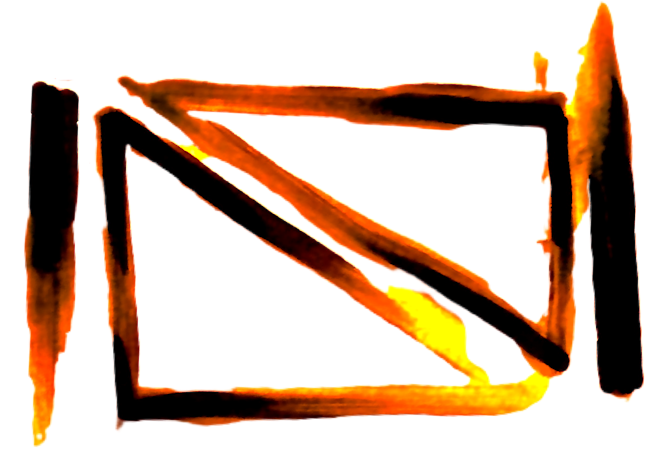
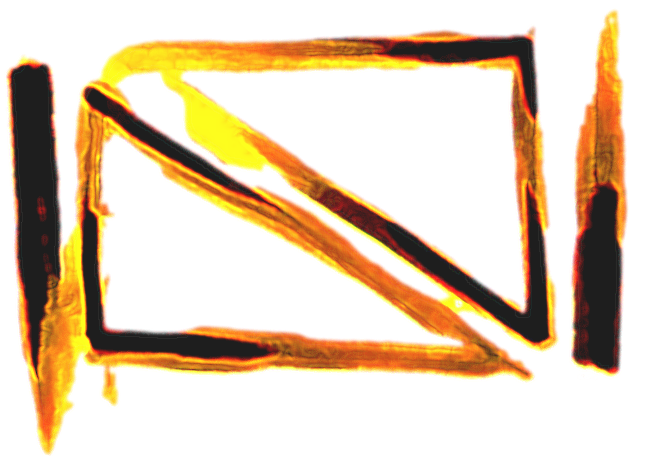
bg, javascript
updates on bg,  javascript, and images

diff --git a/idstyleblack.css b/idstyleblack.css
@@ -6,10 +6,10 @@
 
 body {
 
-    background-image: url('https://rhynep.github.io/id/images/bg_light.png');
+  /*  background-image: url('https://rhynep.github.io/id/images/bg_light.png');
     background-repeat: no-repeat;
     background-attachment: fixed;
-    background-position: center;
+    background-position: center; */
 
     color:white;
     background-color:black;
@@ -180,6 +180,7 @@ img#yellowbackground {
     float:right;
     top:55px;
     right:100px;
+    transform: rotate(11deg) scale(0.9);
     
 }
 
@@ -230,4 +231,32 @@ div.carelessvideo {
     flex-direction: row;
     align-content: center;
     margin-left:33%;
+}
+
+/* subliminal symbol flashes */
+div.flashes1 {
+    position:float;
+    color:red;
+    margin-left:1%;
+    margin-top:33%%;
+}
+
+div.flashes2 {
+    position:fixed;
+    color:black;
+    margin-left:7%;
+    margin-top:44%
+   
+}
+
+div.flashes3 {
+    position:absolute;
+    color:black;
+    margin-left:1%;
+    margin-top:33%;
+}
+div.mainsymbol {
+    position:fixed;
+    right:22%;
+    top:7%;
 }

diff --git a/main.html b/main.html
@@ -25,7 +25,6 @@
 </div> 
     </header>
 
-
 <div class="logoname">
     <a href="http://rhynep.github.io/id/main.html"><img src="http://rhynep.github.io/id/images/logotilt_small_light_noise.png" width="322" id="logoname"></a>
 </div>
@@ -33,7 +32,9 @@
 
 <!--***********-->
 
-
+<div class="mainsymbol">
+<img id="lightsymbol" src="http://rhynep.github.io/id/images/fire_bright_small.png" alt="indecent degenerates symbol">
+</div>
 
 
 
@@ -50,9 +51,19 @@
 </div>
 
 
+<div class="flashes1">
+<img src="http://rhynep.github.io/id/images/id_red.png" id="flashesA" width="100%"
+onMouseOver="MouseRollover(this)" 
+onMouseOut="MouseOut(this)">
+</div>
 
+<div class="flashes2">
 
+</div>
 
+<div class="flashes3">
+    i d  <br>
+</div>
 
 
 <section>

diff --git a/idjs.js b/idjs.js
@@ -1,0 +1,22 @@
+// subliminal symbol flashes 
+subliminal1 = document.getElementById("flashesA"); // gets element by id
+subliminal1.addEventListener("mouseover", onMouseOver1);     // adds event listener so click causes the color to change
+
+function OnMouseOver(flashes1) {
+    flashesA.src = "http://rhynep.github.io/id/images/id_red.png";
+    flashesA.style.width = "auto";
+
+}
+
+subliminal1 = document.getElementById("flashesA"); // gets element by id
+subliminal1.addEventListener("mouseout", onMouseOut1);     // adds event listener so click causes the color to change
+
+function MouseOut(flashes1) {
+    flashesA.src = "";
+}
+
+
+
+
+
+

diff --git a/about.html b/about.html
@@ -33,7 +33,12 @@
 
 <!--***********-->
 
-
+<div class="flashes1">
+    <img src="http://rhynep.github.io/id/images/id_pink.png" id="flashesA" width="100%"
+    onMouseOver="MouseRollover(this)" 
+    onMouseOut="MouseOut(this)">
+    </div>
+    
 <img id="yellowbackground" src="http://rhynep.github.io/id/images/id_green.JPG" height="450" alt="photo of band with yellow background">
 
 
@@ -50,6 +55,7 @@
 
 
 
+    
 
 <section>
     <footer id="footer">   

diff --git a/music.html b/music.html
@@ -35,14 +35,12 @@
 
  
 
-<div class="maintext">
+<div class="music">
     <p>  
         <iframe style="border: 0; width: 350px; height: 442px;" src="https://bandcamp.com/EmbeddedPlayer/track=910533046/size=large/bgcol=333333/linkcol=e99708/tracklist=false/transparent=true/" seamless><a href="http://indecentdegenerates.bandcamp.com/track/cruel-desire">Cruel Desire by Indecent Degenerates</a></iframe>
 
 </p>
 </div>
-
-
 
 
 

diff --git a/events.html b/events.html
@@ -38,7 +38,7 @@
 
 
 
-<div class="maintext">
+<div class="eventstext">
     <p>  
 <h1>Events</h1>
 </p>

diff --git a/idstyle.css b/idstyle.css
@@ -229,3 +229,4 @@ div.carelessvideo {
     align-content: center;
     margin-left:33%;
 }
+
